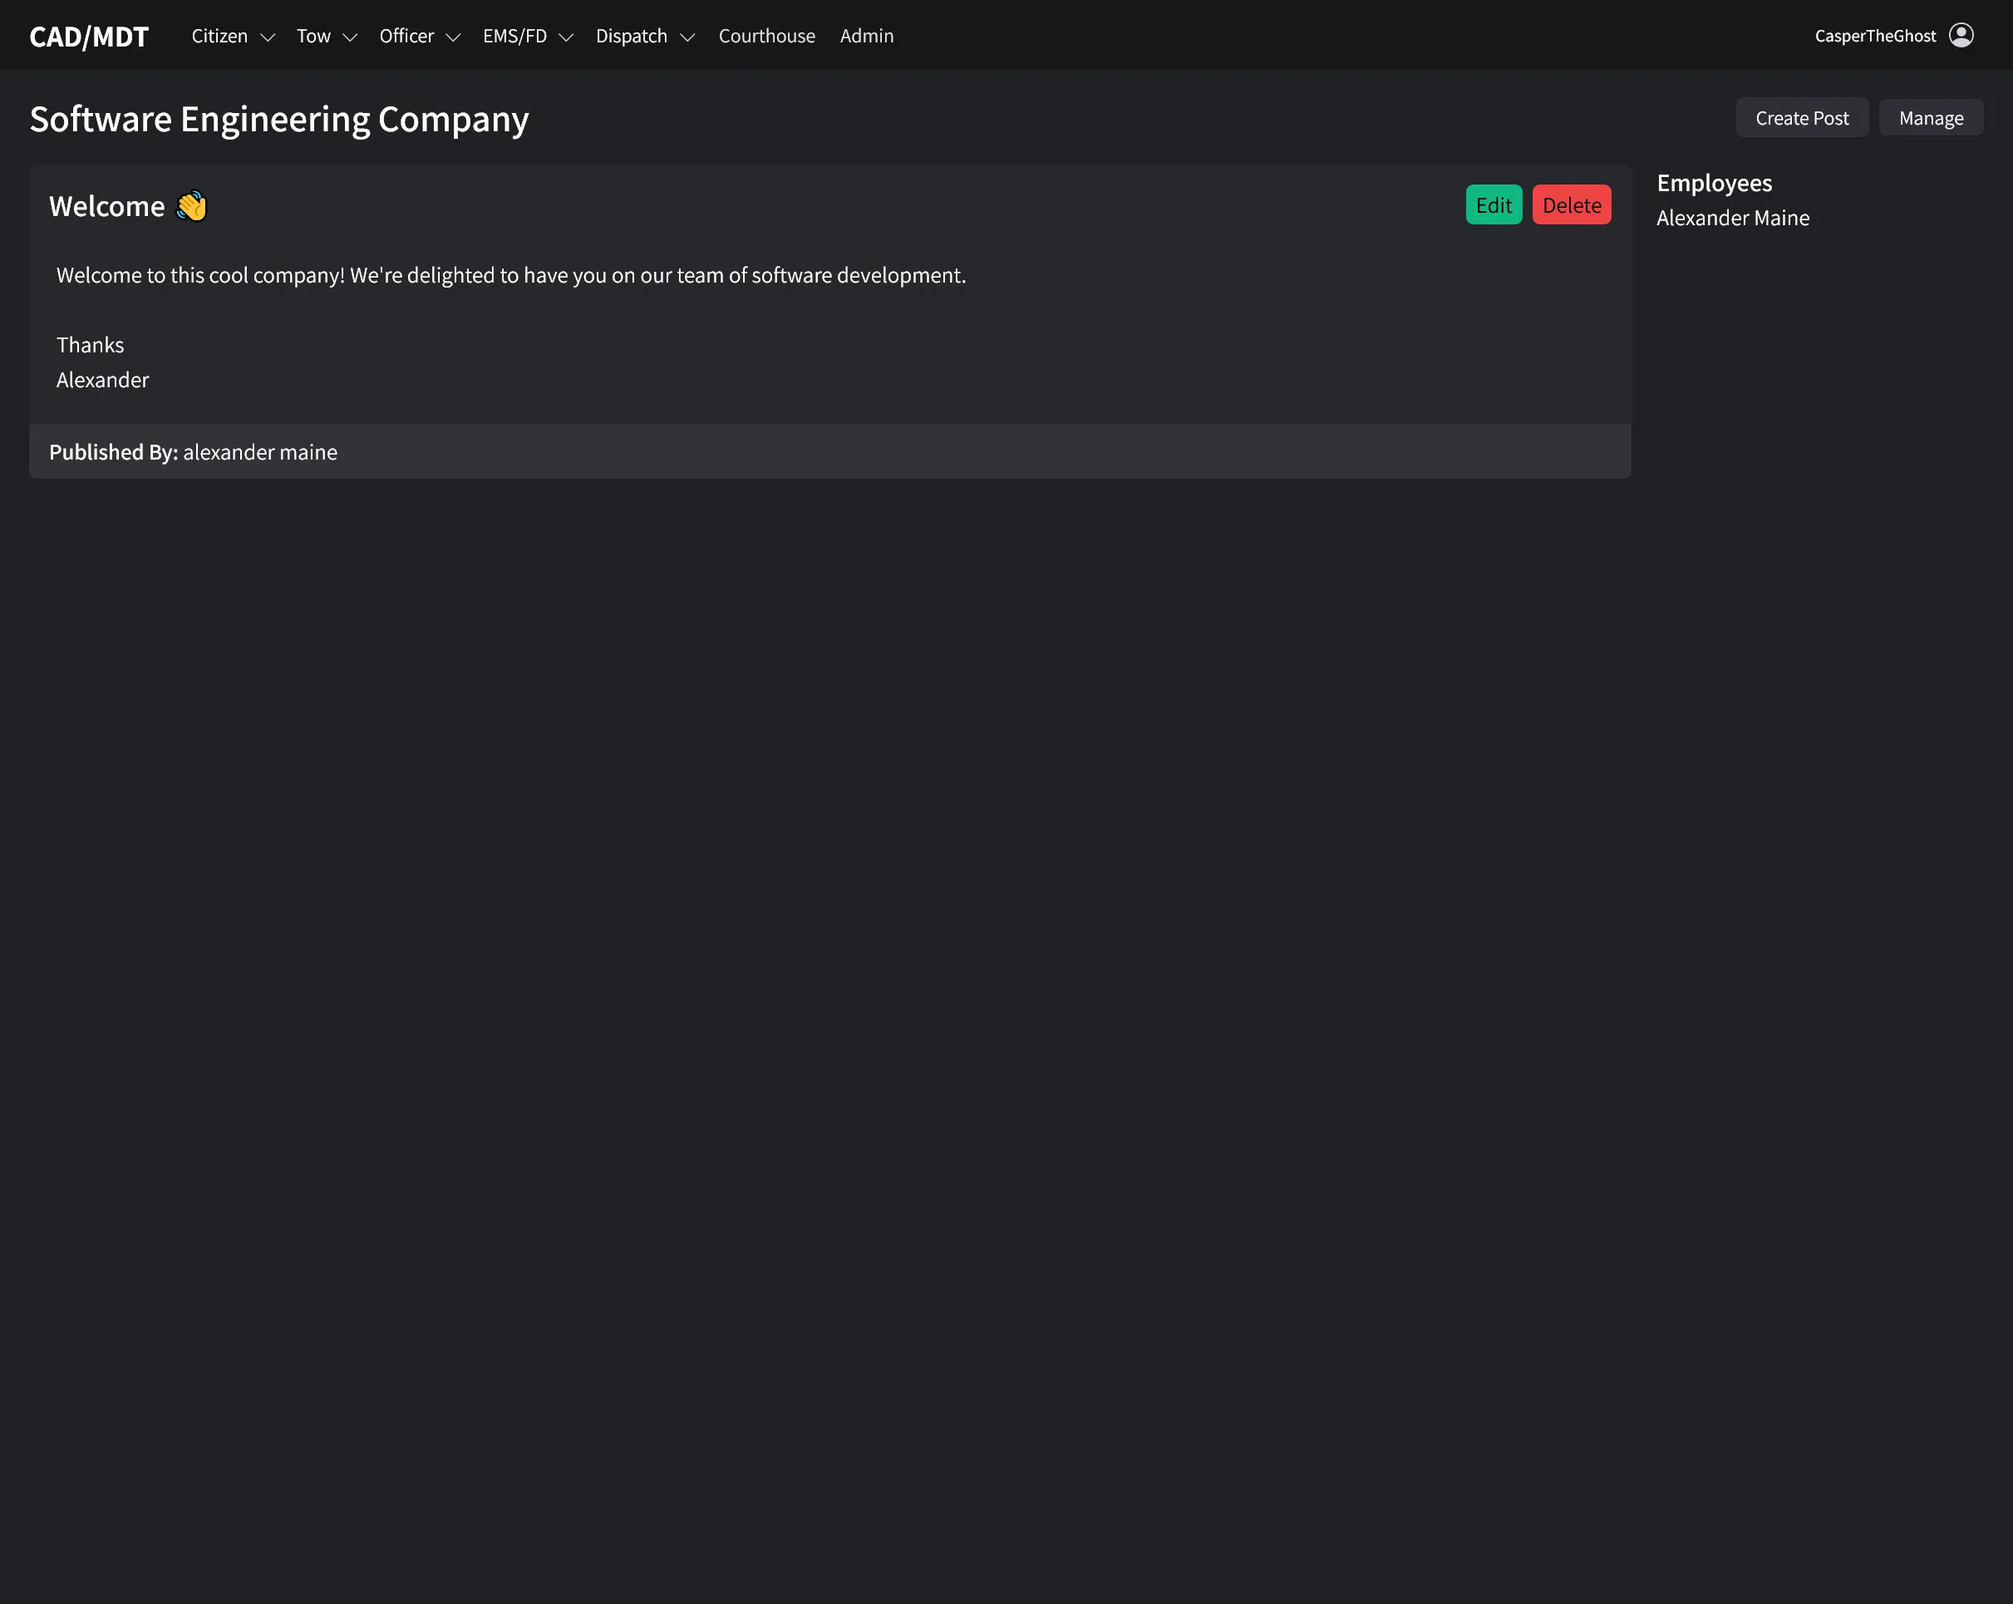
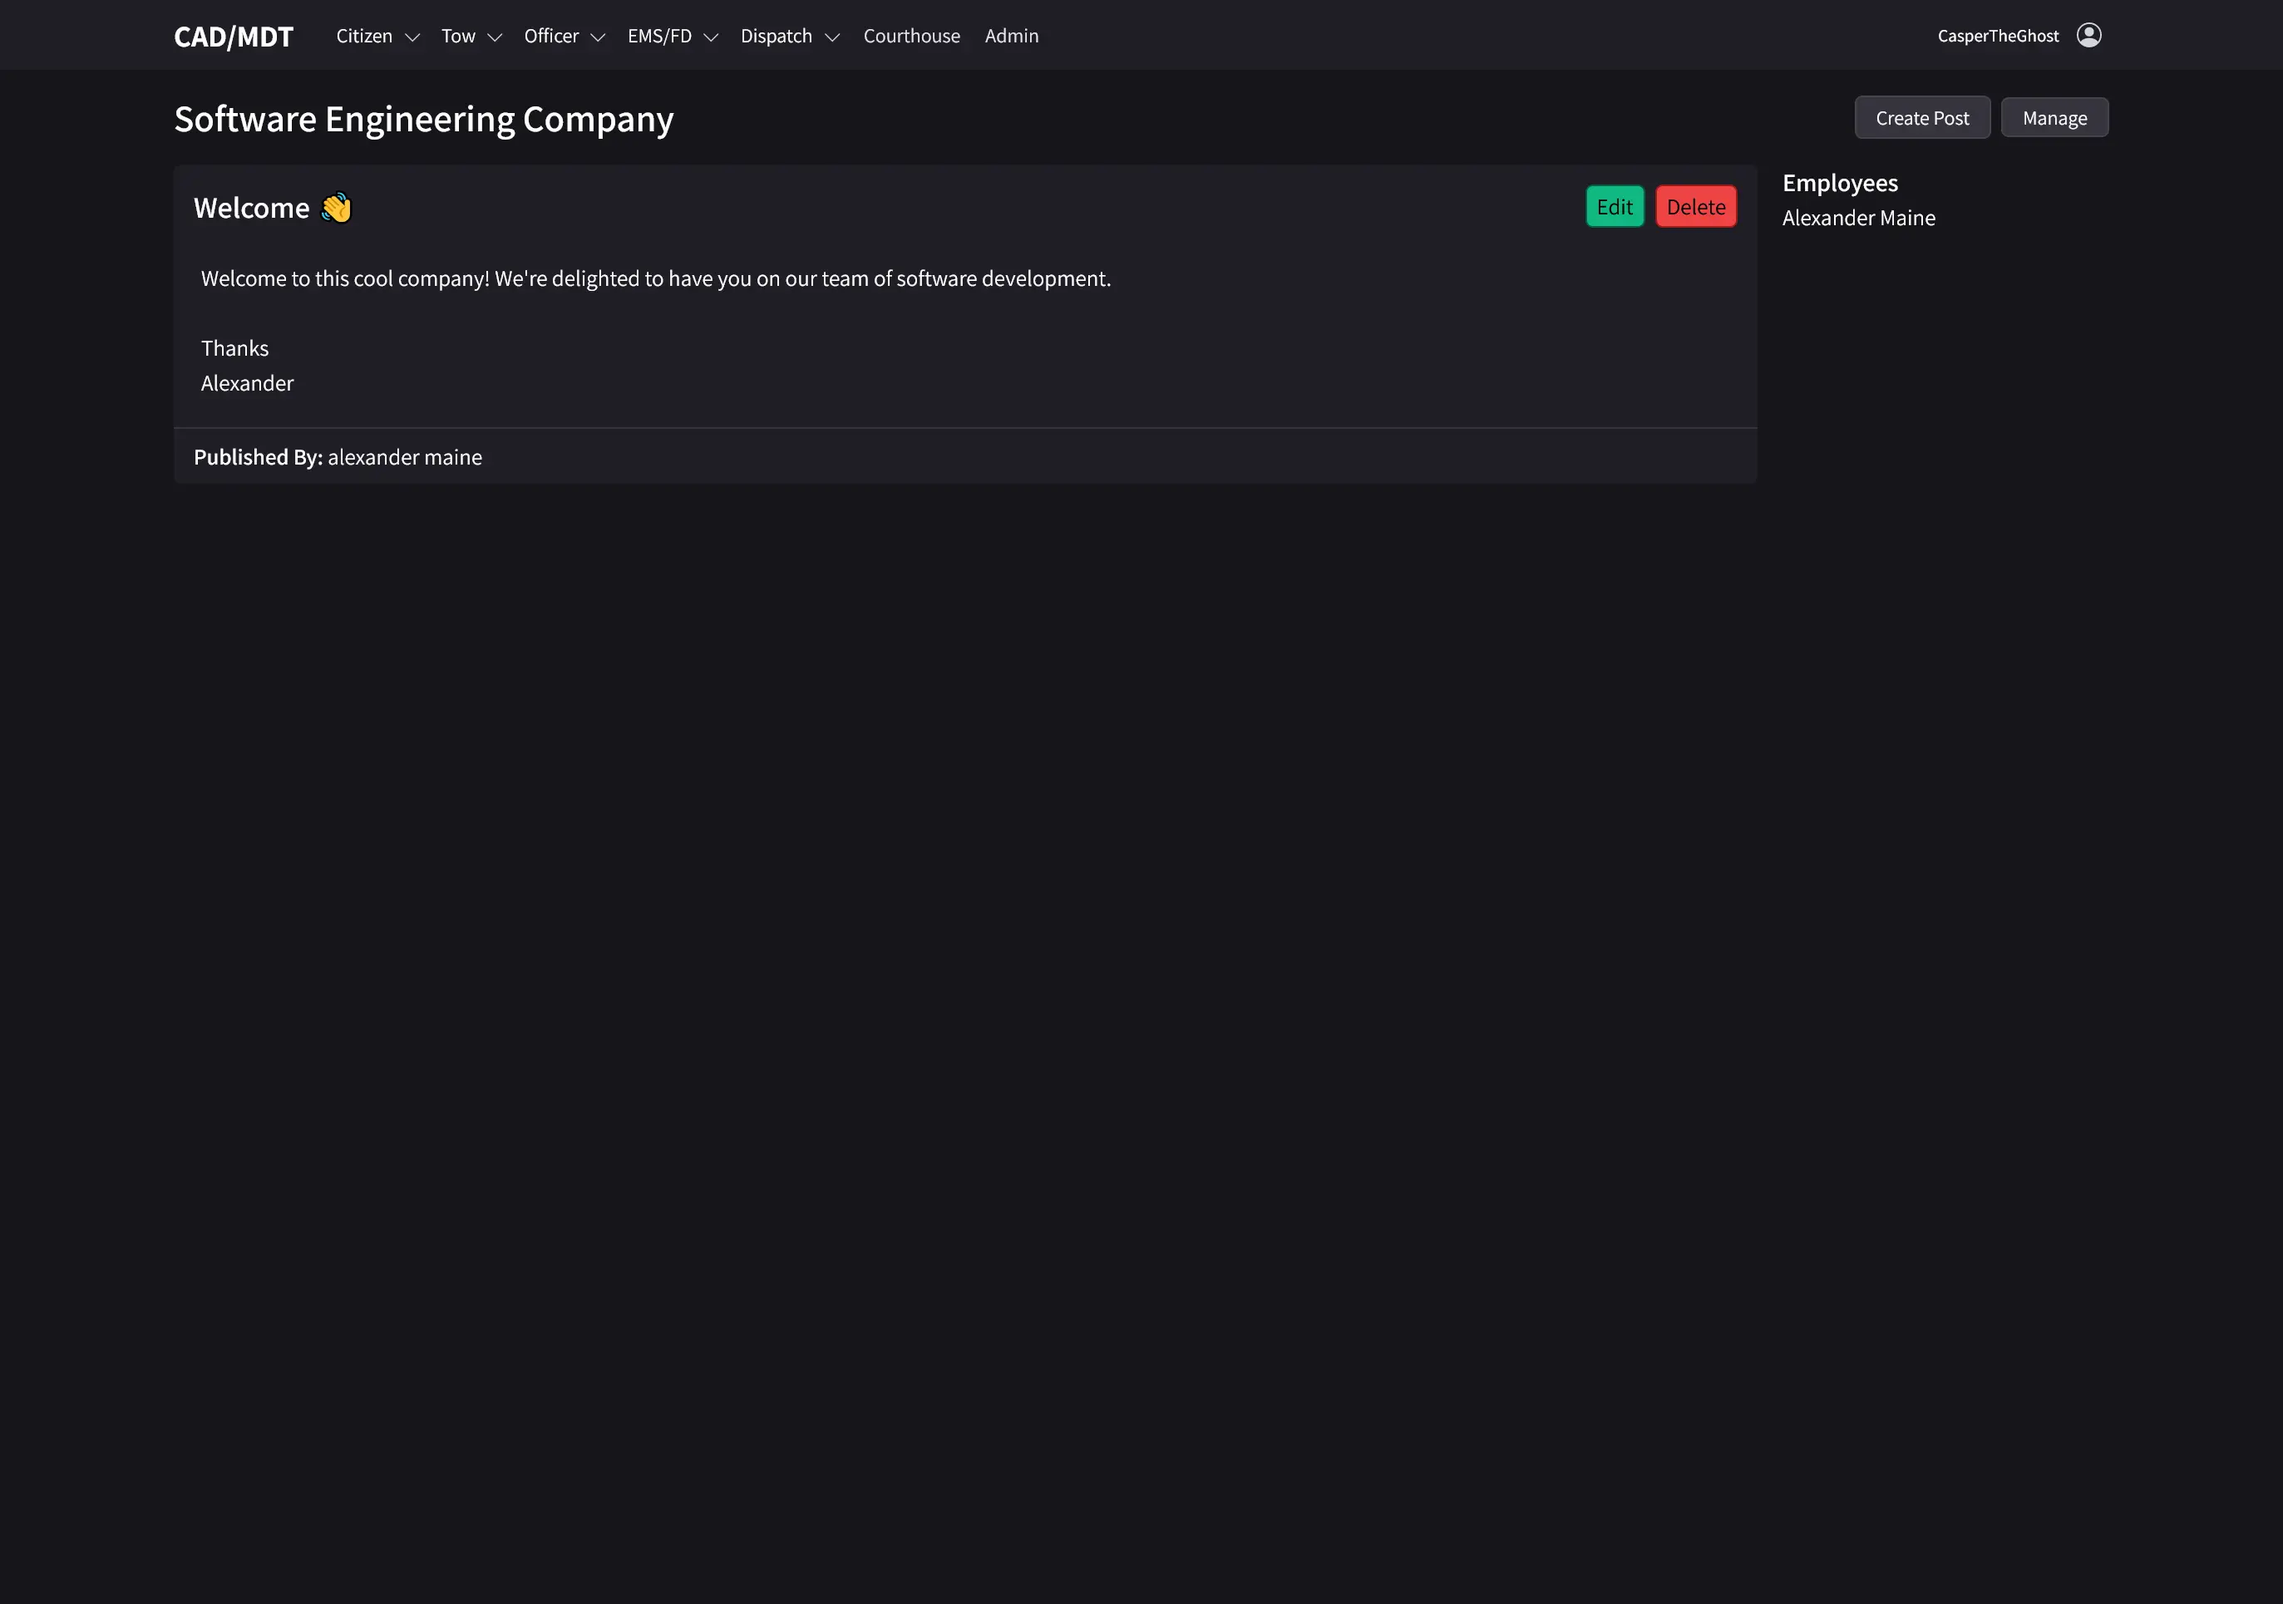
:tada: feat: update screenshots

diff --git a/src/lib/GallerySection.svelte b/src/lib/GallerySection.svelte
@@ -20,6 +20,7 @@
   import tow_dashboard from "../images/cad/tow_dashboard.webp";
   import incidents from "../images/cad/incidents.webp";
   import incidents2 from "../images/cad/incidents2.webp";
+  import jail from "../images/cad/jail.webp";
   import manage_units from "../images/cad/manage_units.webp";
   import manage_courthouse from "../images/cad/manage_courthouse.webp";
   import manage_custom_roles from "../images/cad/manage_custom_roles.webp";
@@ -28,6 +29,7 @@
   import businesses from "../images/cad/businesses.webp";
   import login from "../images/cad/login.webp";
   import taxi from "../images/cad/taxi.webp";
+  import bleeter from "../images/cad/bleeter.webp";
 
   const images = [
     login,
@@ -45,6 +47,7 @@
     live_map,
     leo,
     leo3,
+    jail,
     ems_fd_dashboard,
     manage_users,
     manage_custom_roles,
@@ -55,6 +58,7 @@
     incidents2,
     manage_units,
     manage_courthouse,
+    bleeter,
   ];
 </script>
 

diff --git a/src/lib/HeroSection.svelte b/src/lib/HeroSection.svelte
@@ -20,9 +20,11 @@
     <a
       target="_blank"
       href={DOCS_URL}
-      class="text-xl my-9 p-3 px-5 bg-slate-600 transition-colors hover:bg-slate-600/80 rounded-3xl shadow-sm"
+      class="text-xl my-9 p-3 px-5 bg-slate-600 transition-colors hover:bg-slate-600/80 rounded-3xl shadow-sm group"
     >
-      Start using SnailyCAD ->
+      Start using SnailyCAD <span
+        class="transition-transform group-hover:translate-x-0.5 inline-block">-></span
+      >
     </a>
 
     <div class="w-full max-w-[700px] mt-20">

diff --git a/src/lib/TrustedBySection.svelte b/src/lib/TrustedBySection.svelte
@@ -61,6 +61,7 @@
   <div class="flex justify-center gap-7 flex-wrap">
     {#each communities as community}
       <a
+        target="_blank"
         href={community.discordUrl}
         class="flex flex-col items-center justify-center gap-y-6 bg-slate-700 hover:bg-slate-600 transition-colors p-6 rounded-xl"
       >
